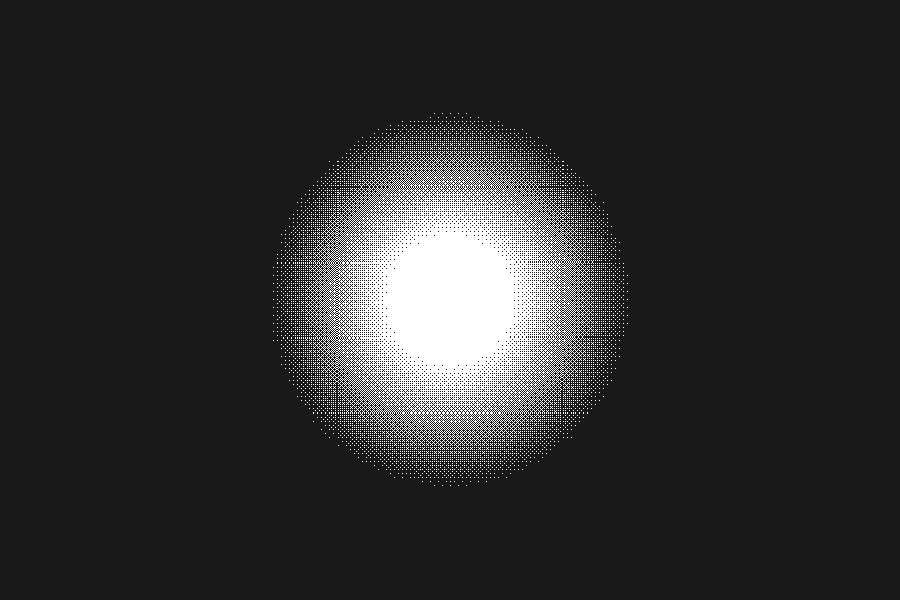
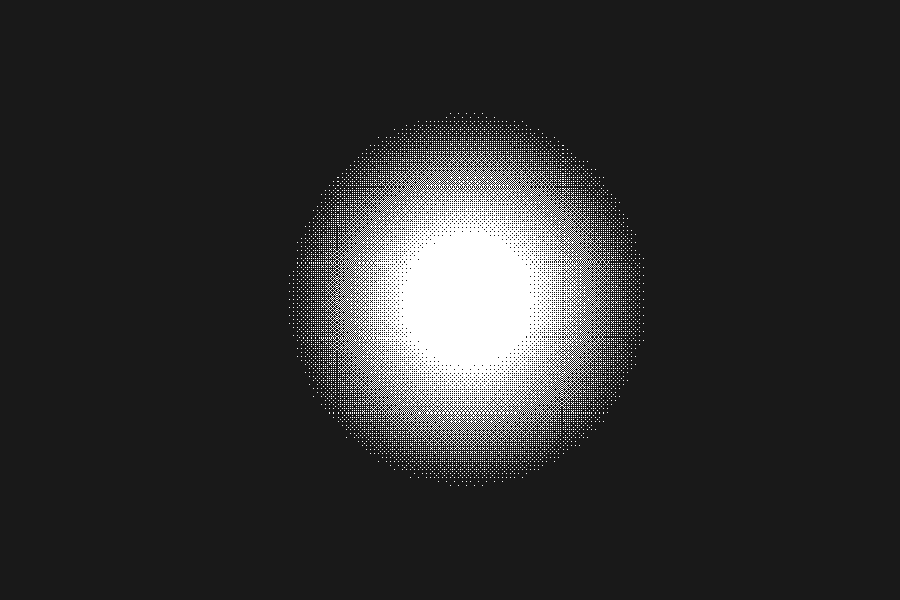
camera fix and bugfix

diff --git a/MODULES/RENDER/main.py b/MODULES/RENDER/main.py
@@ -26,6 +26,7 @@ def update_map(World: WorldClass, screen: pygame.Surface, game_surf: pygame.Surf
     WALL.update()
 
     World.draw_points(game_surf)
+    
 
 def set_up_layers(size: tuple[int, int]) -> tuple[tuple[int, int], pygame.Surface, pygame.Surface, pygame.Surface]:
     floor_surf = pygame.surface.Surface((int(size[0]), int(size[1])))
@@ -35,7 +36,7 @@ def set_up_layers(size: tuple[int, int]) -> tuple[tuple[int, int], pygame.Surfac
     gui_surf.set_colorkey(BLACK)
     floor_surf.set_colorkey(BLACK)
 
-    center = game_surf.get_rect().center
+    center = game_surf.get_rect().center[0]-SIZE/2, game_surf.get_rect().center[1]-SIZE/2
 
     return center, floor_surf, game_surf, gui_surf
 
@@ -49,17 +50,11 @@ def create_object(screen: pygame.Surface,
     world.render_wall()
     world.change_start_point()
 
-    coords_tiled = (world.x_start - world.x_coord, world.y_start - world.y_coord)
     center = world.get_center_tile_corner()
-    corner_coord = (world.x_centr + center[0], world.y_centr + center[1])
 
-        
-    coords = (coords_tiled[0] + world.DRAW_DIST, 
-            coords_tiled[1] + world.DRAW_DIST)
+    center = world.DRAW_DIST*SIZE+center[0], world.DRAW_DIST*SIZE+center[1]
 
-    resized = (coords[0] * SIZE + corner_coord[0], coords[1] * SIZE + corner_coord[1])
-
-    player = Player(x=resized[0], y=resized[1])
+    player = Player(x=center[0], y=center[1])
 
     return world, player
 
@@ -68,12 +63,15 @@ def update_screen(screen: pygame.Surface,
                   floor_surf: pygame.Surface,
                   game_surf: pygame.Surface,
                   gui_surf: pygame.Surface,
-                  clock: Clock) -> None:
+                  clock: Clock, start_time) -> None:
     
     clock.tick(int(FPS))
     game_surf.blit(gui_surf, (0, 0))
     floor_surf.blit(game_surf, (0, 0))
     screen.blit(floor_surf, (0, 0))
+
+    timer(screen, start_time)
+
     pygame.display.flip()
 
 
@@ -84,7 +82,7 @@ def clear_screen(screen: pygame.Surface,
     screen.fill(BLACK)
     floor_surf.fill(BLACK)
     game_surf.fill(BLACK)
-    gui_surf.fill(BLACK)
+    # gui_surf.fill(BLACK)
 
 
 def draw_fog(obj: FogOfGame, screen: pygame.Surface) -> None:
@@ -110,11 +108,11 @@ def guide_for_user(screen):
     for key, pos in key_positions.items():
         screen.blit(images[key], pos)
 
-    # img = pygame.image.load(CONFIG['dirs']['pictures']['button'])
-    # img = pygame.transform.scale(
-    #     img, (CONFIG["pygame"]["width"], CONFIG["pygame"]["height"]))
-    # screen.blit(img, (0, 0))
-
+    img = pygame.image.load(CONFIG['dirs']['pictures']['button']).convert_alpha()
+    img = pygame.transform.scale(
+        img, (CONFIG["pygame"]["width"], CONFIG["pygame"]["height"]))
+    
+    screen.blit(img, (0, 0))
     screen.blit(moving_txt, (40, 110))
     screen.blit(sound_txt, (20, 205))
     screen.blit(menu_txt, (415, 530))
@@ -143,8 +141,9 @@ def main_game_loop(screen: pygame.Surface, size: tuple[int, int], audio: AudioPl
     world, player = create_object(floor_surf, game_surf)
 
     fog = FogOfGame("./DATA/reses/fog/fog.png")
-    draw_fog(fog, gui_surf)
 
+    draw_fog(fog, gui_surf)
+    guide_for_user(gui_surf)
     world.draw_minimap(gui_surf)
 
     audio.run(CONFIG['dirs']['sounds']['game'])
@@ -177,14 +176,17 @@ def main_game_loop(screen: pygame.Surface, size: tuple[int, int], audio: AudioPl
         keys = pygame.key.get_pressed()
         move_speed = CONFIG["player"]["speed"] // FPS
 
-        if player.x - center[0] >= 64:
-            world.center_point(move_speed, "-x")
-        if player.y - center[1] >= 64:
-            world.center_point(move_speed, "-y")
-        if center[0] - player.x >= 64:
+        error = (player.x + SIZE/2 - center[0], player.y  + SIZE/2 - center[1])
+
+        if error[0] <= 12:
             world.center_point(move_speed, "+x")
-        if center[1] - player.y >= 64:
+        if error[0] >= -12:
+            world.center_point(move_speed, "-x")
+
+        if error[1] <= 12:
             world.center_point(move_speed, "+y")
+        if error[1] >= -12:
+            world.center_point(move_speed, "-y")
 
 
         update_map(world, floor_surf, game_surf)
@@ -195,8 +197,7 @@ def main_game_loop(screen: pygame.Surface, size: tuple[int, int], audio: AudioPl
         if player.exit_now(world.exit_point) == "win":
             return "win", start_time, time.time()
 
-        guide_for_user(gui_surf)
-        timer(gui_surf, start_time)
-        update_screen(screen, floor_surf, game_surf, gui_surf, clock)
+
+        update_screen(screen, floor_surf, game_surf, gui_surf, clock, start_time)
 
     return "quit", start_time, time.time()

diff --git a/MODULES/ENTITYES/player.py b/MODULES/ENTITYES/player.py
@@ -13,7 +13,7 @@ class Player(pg.sprite.Sprite):
     def __init__(self, x: int, y: int) -> None:
         pg.sprite.Sprite.__init__(self)
 
-        self.x, self.y = x-SIZE/2, y-SIZE/2
+        self.x, self.y = x-SIZE/2+1, y-SIZE/2+1
 
         self.speed: float = CONFIG["player"]["speed"]
 
@@ -123,6 +123,7 @@ class Player(pg.sprite.Sprite):
         prev_direction = self.current_direction
 
         collide = pg.sprite.spritecollide(self, collide_obj, False, pg.sprite.collide_mask)
+        # collide = False
 
         if not collide:
             if current_key == "up":
@@ -178,16 +179,19 @@ class Player(pg.sprite.Sprite):
 
 
         allise = world.anti_allise(get=True)
+        error = (self.x + SIZE/2 - center[0], self.y  + SIZE/2 - center[1])
 
-        if (self.x - center[0]) >= 64 and allise != "x+":
+
+        if error[0] > 10 and allise != "x+":
             self.x -= speed_per_frame - 1
-        elif (center[0] - self.x) >= 64 and allise != "x-":
+        elif error[0] < -10 and allise != "x-":
             self.x += speed_per_frame - 1
 
-        if (self.y - center[1]) >= 64 and allise != "y+":
+        if error[1] > 10 and allise != "y+":
             self.y -= speed_per_frame - 1
-        elif (center[1] - self.y) >= 64 and allise != "y-":
+        elif error[1] < -10 and allise != "y-":
             self.y += speed_per_frame - 1
+
 
     def update(self, keys: ScancodeWrapper, center: tuple[int, int], get_collide, world) -> None:
         self.move(keys, center, get_collide, world)

diff --git a/MODULES/RENDER/render_world.py b/MODULES/RENDER/render_world.py
@@ -99,7 +99,7 @@ class WorldClass:
 
     def get_center_tile_corner(self) -> tuple[int, int]:
         center = self.floor_surface.get_rect().center
-        up_left_draw_corner = center[0] - SIZE // 2, center[1] - SIZE // 2
+        up_left_draw_corner = int(center[0] - SIZE // 2), int(center[1] - SIZE // 2)
 
         return (up_left_draw_corner[0] - (SIZE * self.DRAW_DIST + 1),
                 up_left_draw_corner[1] - (SIZE * self.DRAW_DIST + 1))
